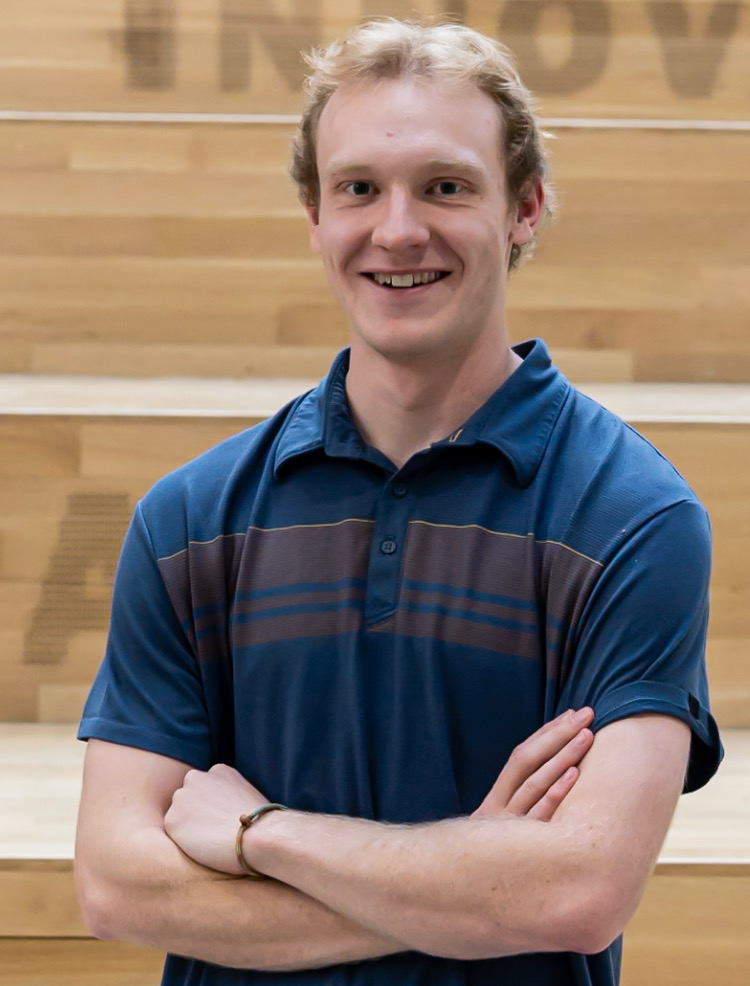
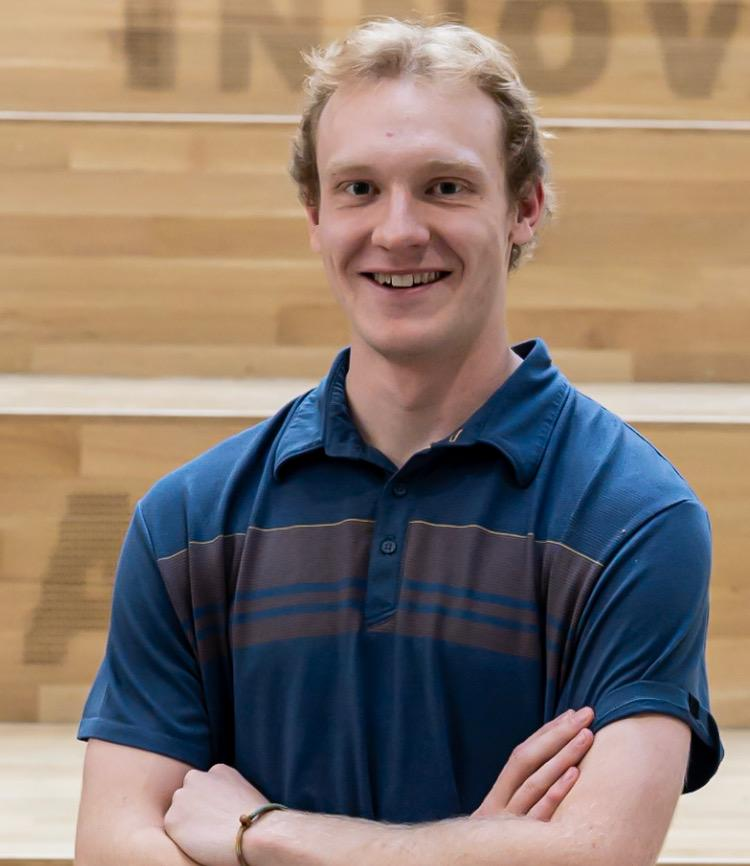
Updated website member list to reflect 2025's member roster

diff --git a/members.html b/members.html
@@ -62,33 +62,37 @@
         <br>
 
         <h2>ELECTRICAL TEAM</h2>
-        <!--Peter Buckley-->
         <div class="photo-grid2">
+           
+
+            <!--Nathan O.-->
             <div class="custom_card2">
+                <img src="images/2025/Members/Nathan_Oftedal.jpg" alt="Nathan Oftedal">
+                <div class="desc">
+                    <h4 class="card-name">Nathan Oftedal</h4>
+                    <span class="title">Electrical Lead</span>
+                </div>
+            </div>
+
+
+            <!-- Peter Buckley -->
+            <!-- <div class="custom_card2">
                 <img src="images/2025/Members/Peter_Buckley.jpg" alt="Peter Buckley">
                 <div class="desc">
                     <h4 class="card-name">Peter Buckley</h4>
                     <span class="title">Electrical Lead</span>
                 </div>
-            </div>
+            </div> -->
 
             <!--David Jenson-->
-            <div class="custom_card2">
+            <!-- <div class="custom_card2">
                 <img src="images/2025/Members/David_Jensen.JPEG" alt="David Jenson">
                 <div class="desc">
                     <h4 class="card-name">David Jensen</h4>
                     <span class="title">Social Media Manager</span>
                 </div>
-            </div>
+            </div> -->
 
-            <!--Nathan O.-->
-            <div class="custom_card2">
-                <img src="images/2024/members/Nathan_O.jpg" alt="Nathan O.">
-                <div class="desc">
-                    <h4 class="card-name">Nathan O.</h4>
-                    <span class="title">Electrical Team member</span>
-                </div>
-            </div>
         </div>
         <br>
 
@@ -96,38 +100,55 @@
         <div class="photo-grid2">
             <!--Mikael Savage-->
             <div class="custom_card2">
-                <img src="images/2024/members/Mikael_Savage.jpg" alt="Michael Savage">
+                <img src="images/2025/Members/Mikael_Savage.jpg" alt="Mikael Savage">
                 <div class="desc">
                     <h4 class="card-name">Mikael Savage</h4>
-                    <span class="title">Mechanical Team Lead</span>
+                    <span class="title">Club President</span>
                 </div>
             </div>
-
-            <!--Ethan Bandy-->
+            <!-- Carson Phillips -->
             <div class="custom_card2">
-                <img src="images/2024/members/Ethan_Bandy.jpg" alt="Ethan Bandy">
-                <div class="desc">
-                    <h4 class="card-name">Ethan Bandy</h4>
-                    <span class="title">President</span>
-                </div>
-            </div>
-
-            <!--Anjali Gunning-->
-            <div class="custom_card2">
-                <img src="images/2024/members/Anjali_Gunning.jpg" alt="Anjali Gunning">
-                <div class="desc">
-                    <h4 class="card-name">Anjali Gunning</h4>
-                    <span class="title">Vice President</span>
-                </div>
-            </div>
-        </div>
-
-        <div class="photo-grid2">
-            <!--Carson Philips-->
-            <div class="custom_card2">
-                <img src="images/2024/members/Carson_Philips.jpg" alt="Carson Philips">
+                <img src="images/2025/Members/Carson_Phillips.jpg" alt="Carson Philips">
                 <div class="desc">
                     <h4 class="card-name">Carson Philips</h4>
+                    <span class="title">Club Vice President</span>
+                </div>
+            </div>
+
+            <!-- Gabriel Sova -->
+            <div class="custom_card2">
+                <img src="images/2025/Members/Gabriel_Sova.jpg" alt="Gabriel Sova">
+                <div class="desc">
+                    <h4 class="card-name">Gabriel Sova</h4>
+                    <span class="title">Mechanical Lead</span>
+                </div>
+            </div>
+
+
+
+        </div>
+        <div class="photo-grid2">
+            <!-- Evan Wright -->
+            <div class="custom_card2">
+                <img src="images/2025/Members/Evan_Wright.jpg" alt="Evan Wright">
+                <div class="desc">
+                    <h4 class="card-name">Evan Wright</h4>
+                    <span class="title">Mechanical Team Member</span>
+                </div>
+            </div>
+            <!-- Camden Debruin -->
+            <div class="custom_card2">
+                <img src="images/2025/Members/Camden_Debruin.jpg" alt="Camden Debruin">
+                <div class="desc">
+                    <h4 class="card-name">Camden Debruin</h4>
+                    <span class="title">Mechanical Team Member</span>
+                </div>
+            </div>
+            <!-- Logan Smith -->
+            <div class="custom_card2">
+                <img src="images/2025/Members/Logan_Smith.jpg" alt="Logan Smith">
+                <div class="desc">
+                    <h4 class="card-name">Logan Smith</h4>
                     <span class="title">Mechanical Team Member</span>
                 </div>
             </div>
@@ -137,74 +158,71 @@
         <h2>SOFTWARE TEAM</h2>
         <div class="photo-grid2">
 
-            <!--Brendan Harrington-->
+            <!--John Fotheringham-->
             <div class="custom_card2">
-                <img src="images/2024/members/Brendan_Harrington.jpg" alt="Brendan">
+                <img src="images/2025/Members/John_Fotheringham.jpg" alt="John Fotheringham">
                 <div class="desc">
-                    <h4 class="card-name">Brendan Harrington</h4>
-                    <span class="title">Software Lead</span>
+                    <h4 class="card-name">John Fotheringham</h4>
+                    <span class="title">Software Team Lead</span>
                 </div>
             </div>
 
-            <!--David Jenson-->
+            <!-- Lindsay Read -->
             <div class="custom_card2">
-                <img src="images/2024/members/David_Jensen.jpg" alt="David Jenson">
+                <img src="images/2025/Members/Lindsay_Read.jpg" alt="Lindsay Read">
                 <div class="desc">
-                    <h4 class="card-name">David Jensen</h4>
-                    <span class="title">Competition Software Lead</span>
+                    <h4 class="card-name">Lindsay Read</h4>
+                    <span class="title">Software Team Member</span>
                 </div>
             </div>
 
-            <!--Teddy Vander Wall-->
+            <!-- Jenna Cordes -->
             <div class="custom_card2">
-                <div class="circular--portrait">
-                <img src="images/2024/members/Teddy_Vander_Wall.jpg" alt="Teddy Vander Wall">
-                </div>
+                <img src="images/2025/Members/Jenna_Cordes.jpg" alt="Jenna Cordes">
                 <div class="desc">
-                    <h4 class="card-name">Teddy Vander Wall</h4>
-                    <span class="title">Secretary</span>
+                    <h4 class="card-name">Jenna Cordes</h4>
+                    <span class="title">Software Team Member</span>
                 </div>
             </div>
+            
         </div>
 
         <div class="photo-grid2">
-        <!--Jake Laughrey-->
+            <!-- Olivia Jones -->
             <div class="custom_card2">
-                <img src="images/2024/members/jacob.jfif" alt="Jake Laughrey">
+                <img src="images/2025/Members/Olivia_Jones.jpg" alt="Olivia Jones">
                 <div class="desc">
-                    <h4 class="card-name">Jake Laughrey</h4>
+                    <h4 class="card-name">Olivia Jones</h4>
+                    <span class="title">Club Secretary</span>
+                </div>
+            </div>
+            <!-- Adam Grasmick -->
+            <div class="custom_card2">
+                <img src="images/2025/Members/Adam_Grasmick.jpg" alt="Adam Grasmick">
+                <div class="desc">
+                    <h4 class="card-name">Adam Grasmick</h4>
                     <span class="title">Software Team Member</span>
                 </div>
             </div>
         </div>
         <br>
 
-        <h2>BUSINESS TEAM</h2>
+        <h2>MENTORS / 2025 GRADUATES</h2>
+
         <div class="photo-grid2">
-            <!--Anjali Gunning-->
+            <!-- David Jensen -->
             <div class="custom_card2">
-                <img src="images/2024/members/Anjali_Gunning.jpg" alt="#">
+                <img src="images/2025/Members/David_Jensen.JPEG" alt="David Jensen">
                 <div class="desc">
-                    <h4 class="card-name">Anjali Gunning</h4>
-                    <span class="title">Business Lead</span>
+                    <h4 class="card-name">David Jensen</h4>
+                    <span class="title">Former Software Team Lead / Electrical Team Member</span>
                 </div>
             </div>
-
-            <!--Teddy Vander Wall-->
             <div class="custom_card2">
-                    <img src="images/2024/members/Teddy_Vander_Wall.jpg" alt="Dark Knight Sub">
+                <img src="images/2025/Members/Peter_Buckley.jpg" alt="Peter Buckley">
                 <div class="desc">
-                    <h4 class="card-name">Teddy Vander Wall</h4>
-                    <span class="title">Business Team Member</span>
-                </div>
-            </div>
-
-            <!--Brendan Harrington-->
-            <div class="custom_card2">
-                <img src="images/2024/members/Brendan_Harrington.jpg" alt="Brendan">
-                <div class="desc">
-                    <h4 class="card-name">Brendan Harrington</h4>
-                    <span class="title">Business Team Member</span>
+                    <h4 class="card-name">Peter Buckley</h4>
+                    <span class="title">Former Club President / Electrical Team Lead</span>
                 </div>
             </div>
         </div>

diff --git a/css/side-page.css b/css/side-page.css
@@ -152,6 +152,7 @@ main h2{
     font-size: 3rem;
 }
 .desc {
+    display: block;
     margin-top: 2rem;
 }
 
@@ -229,21 +230,24 @@ main .custom_card2{
     color: black;
     /*border: 1px solid #44E3D2;*/
     /*border-radius: 30px;*/
-    min-height: 400px;
+    min-height: 500px;
     max-height: 600px;
     box-shadow: 20px 20px 30px rgba(0,0,0, 0.02);
     background-size: cover;
     background-position: center;
 }
 .custom_card2 img{
-    width: 90%;
+    width: 100%;
+    height: 100%;
+
     box-sizing: border-box;
     background-color: whitesmoke;
     padding: 2rem;
     box-shadow: 5px 5px 10px rgba(0, 0, 0, .3);
     max-height: 420px;
+    max-width: 420px;
     border-radius: 50%;
-    object-fit: contain;
+    object-fit: cover;
 }
 
 /*-------------------------------------------------------------------
@@ -429,4 +433,5 @@ footer .container {
     justify-content: center;
     text-align: center;
 }
+
 
